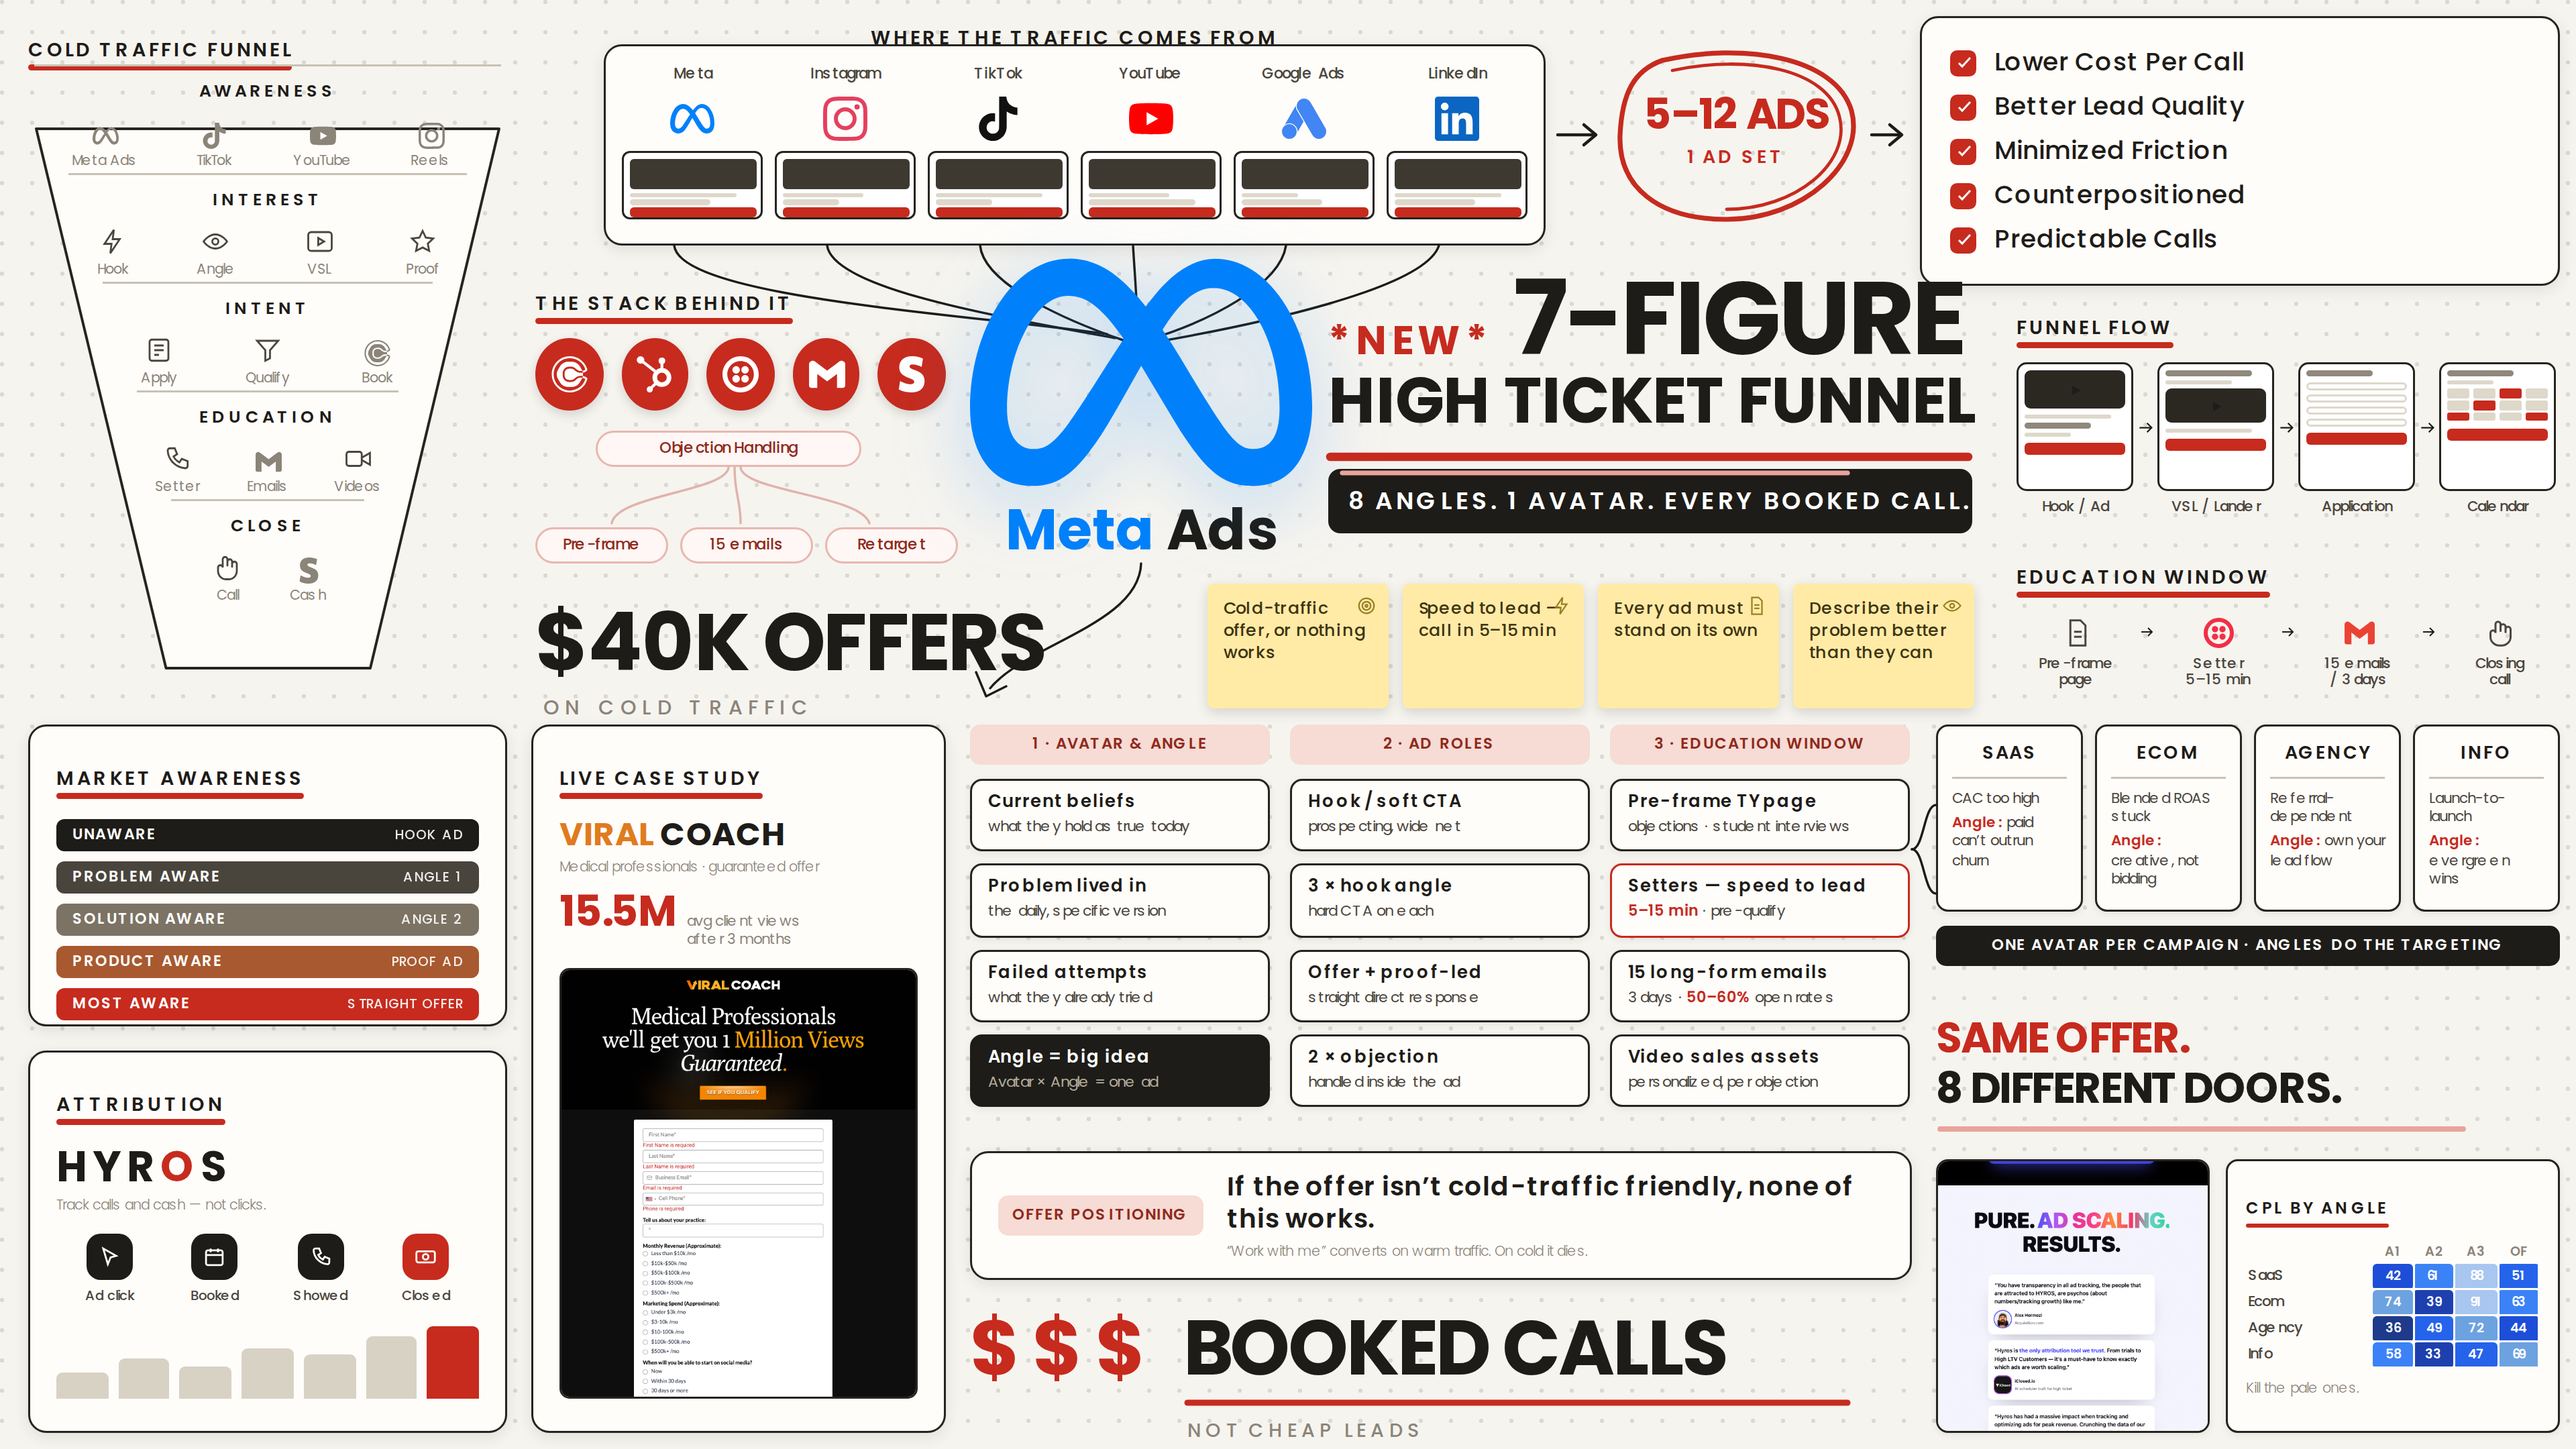
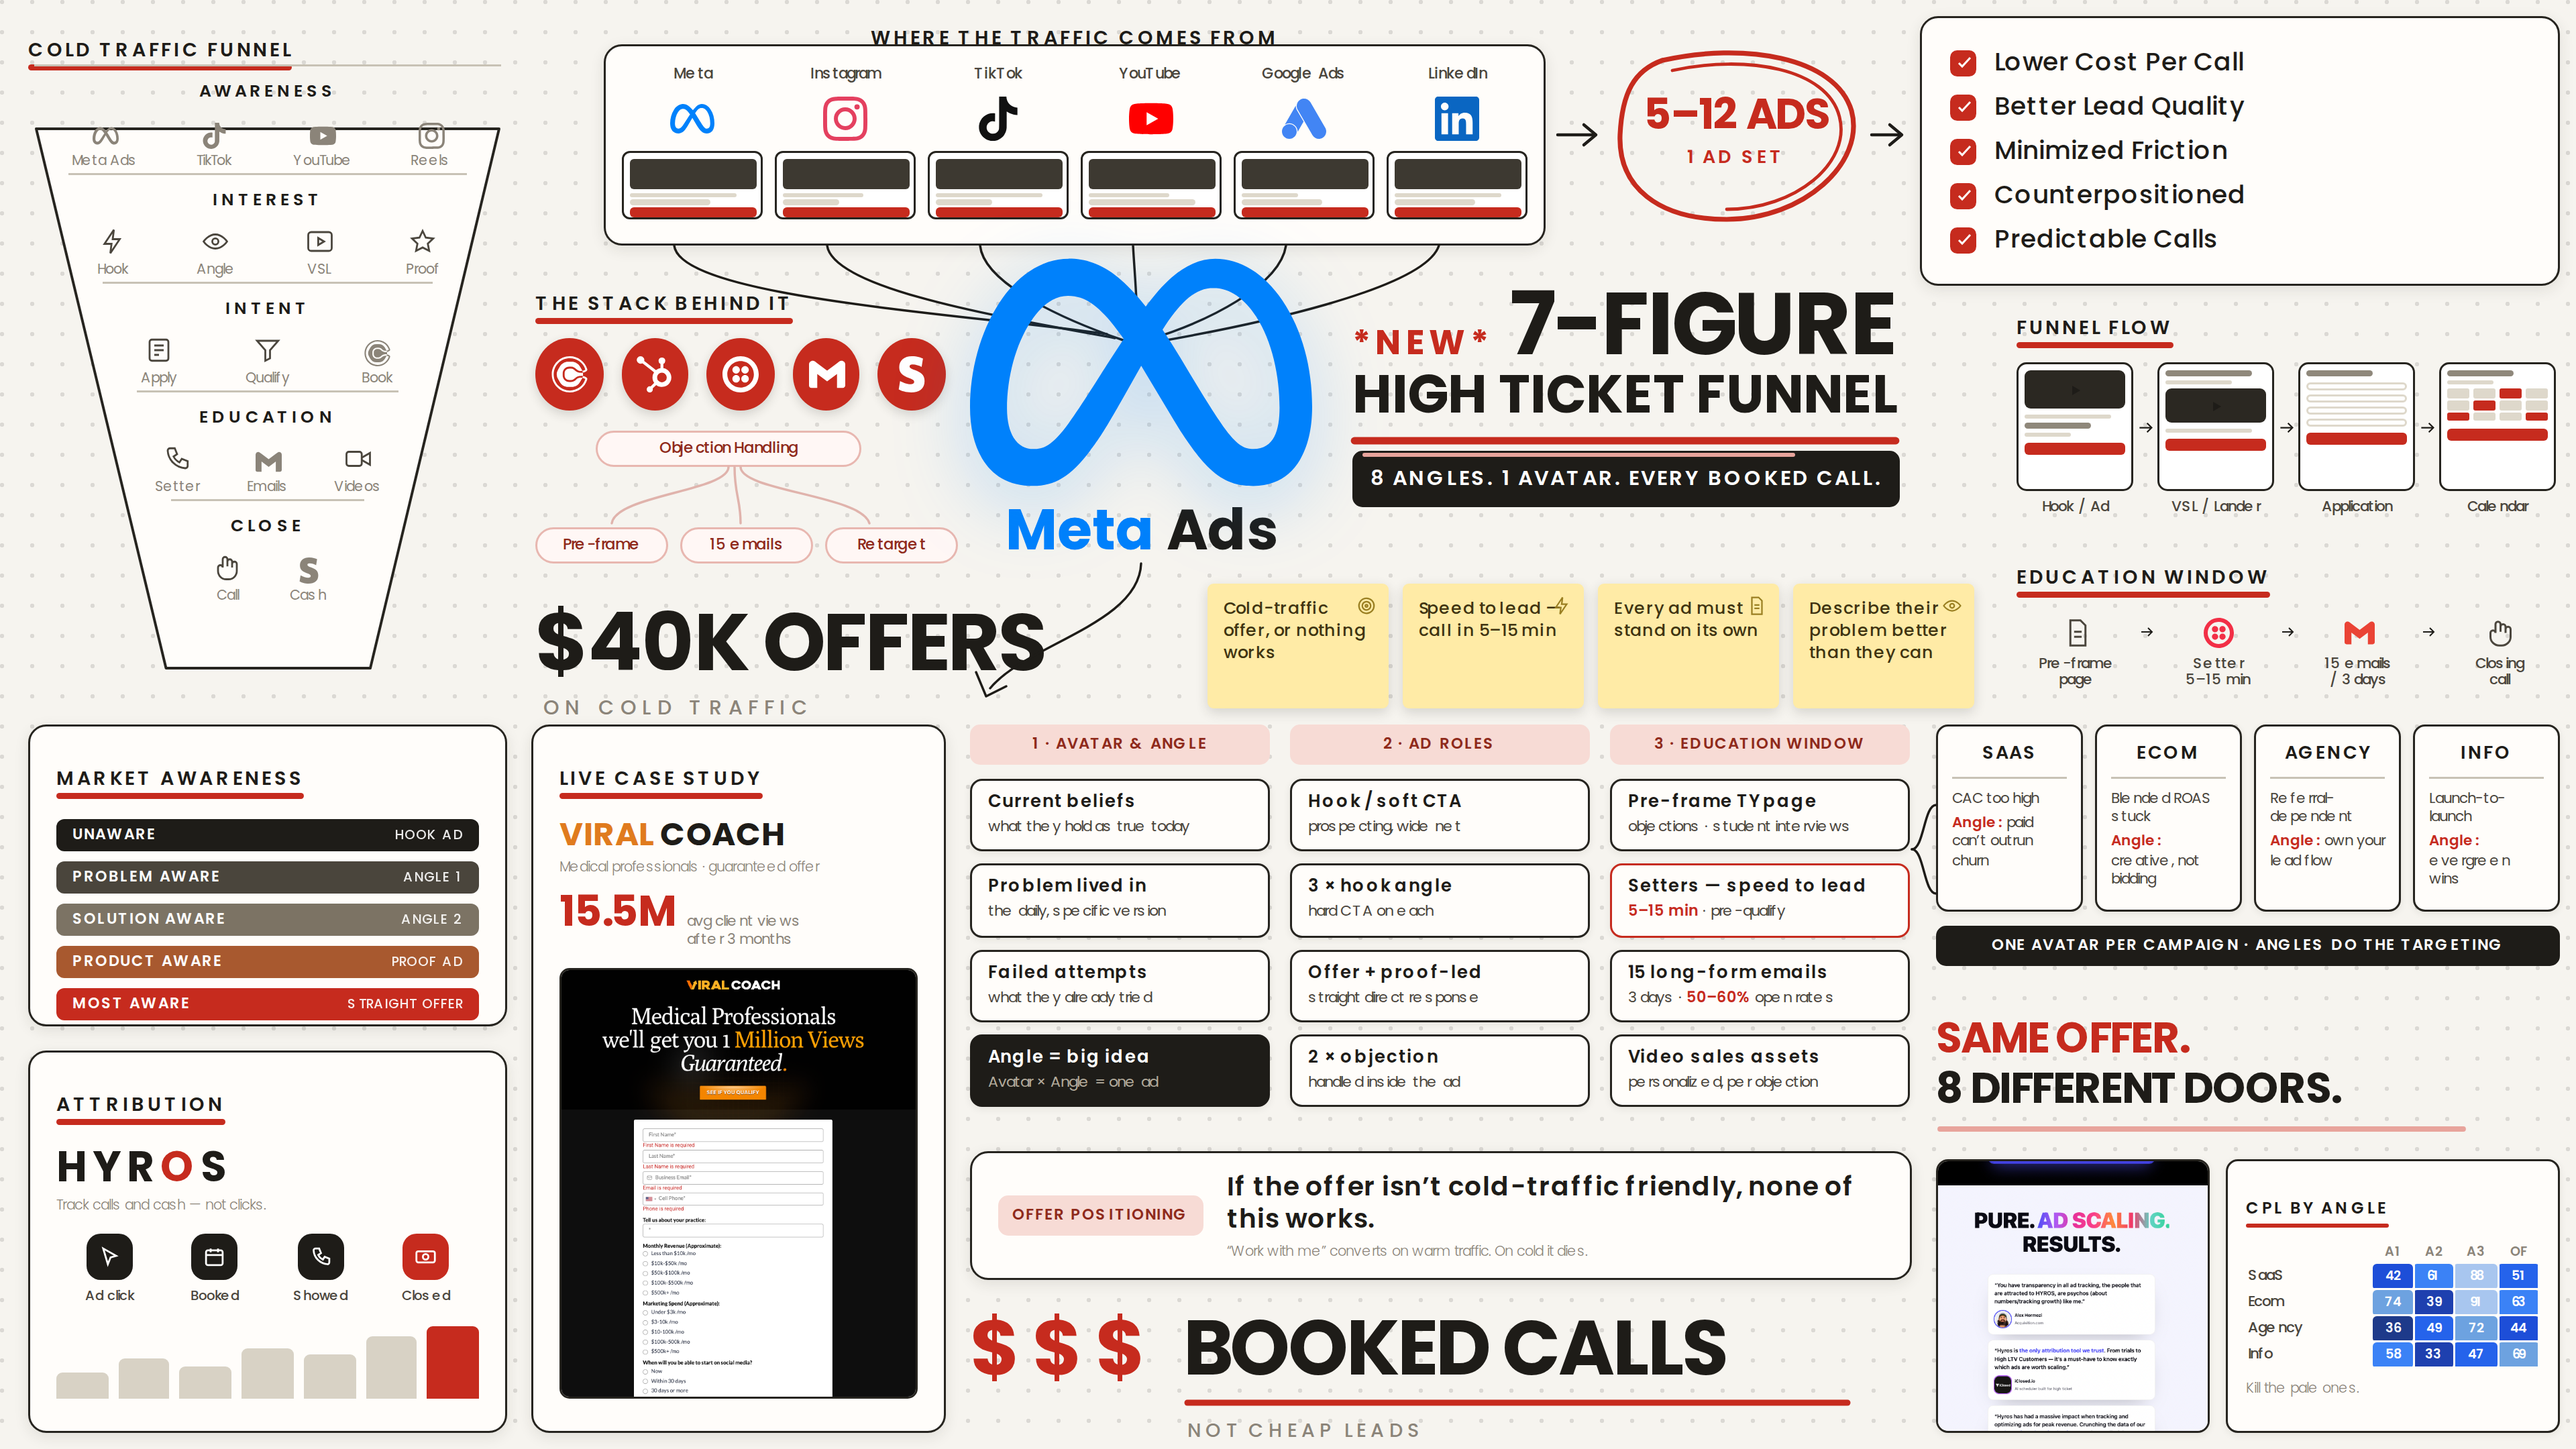
Scale down the thumbnail title block
Scaled the whole block by 0.85 to a 272px measure so the rows stay flush,
and opened the gap to FUNNEL FLOW and the sticky row.

Claude-Session: https://claude.ai/code/session_01GDiUpLQwiL13ZvT66QBghD

Changed region(s): [[0.5, 0.1861, 0.7812, 0.3722]]

diff --git a/design/thumbnails/multi-avatar-funnel/index.html b/design/thumbnails/multi-avatar-funnel/index.html
@@ -144,15 +144,15 @@ svg.ink{position:absolute;overflow:visible;pointer-events:none}
 #anchor .mads i{font-style:normal;color:#0081fb}
 
 /* ═════ F · title ═════ */
-#ttl{left:660px;top:134px;width:320px}
-#ttl .r1{display:flex;align-items:baseline;gap:10px;white-space:nowrap}
-#ttl .l0{font-weight:700;font-size:20px;letter-spacing:.14em;line-height:1;color:var(--red)}
-#ttl .l1{font-weight:700;font-size:51px;letter-spacing:-.025em;line-height:.95}
-#ttl .l2{font-weight:700;font-size:31.9px;letter-spacing:-.01em;line-height:1;
+#ttl{left:672px;top:140px;width:272px}
+#ttl .r1{display:flex;align-items:baseline;gap:8px;white-space:nowrap}
+#ttl .l0{font-weight:700;font-size:17px;letter-spacing:.14em;line-height:1;color:var(--red)}
+#ttl .l1{font-weight:700;font-size:43.4px;letter-spacing:-.025em;line-height:.95}
+#ttl .l2{font-weight:700;font-size:26.5px;letter-spacing:-.01em;line-height:1;
   margin-top:2px;white-space:nowrap}
-#ttl .bar{margin-top:17px;display:block;text-align:center;white-space:nowrap;
-  background:var(--ink);color:#fff;font-weight:600;font-size:12px;letter-spacing:.1em;
-  padding:7px 10px;border-radius:6px}
+#ttl .bar{margin-top:14px;display:block;text-align:center;white-space:nowrap;
+  background:var(--ink);color:#fff;font-weight:600;font-size:10.2px;letter-spacing:.1em;
+  padding:6px 9px;border-radius:5px}
 
 /* ═════ G · stickies ═════ */
 #stk{left:600px;top:290px;width:381px;display:flex;gap:7px}
@@ -435,9 +435,9 @@ svg.ink{position:absolute;overflow:visible;pointer-events:none}
   <div class="abs" id="ttl">
     <div class="r1"><span class="l0">*NEW*</span><span class="l1">7-FIGURE</span></div>
     <div class="l2">HIGH TICKET FUNNEL</div>
-    <svg class="ink" style="left:0;top:88px;width:320px;height:15px">
-      <path style="stroke:var(--red);stroke-width:4.2" d="M1 5 H318"/>
-      <path style="stroke:#e8a49c;stroke-width:2.4" d="M7 13 H258"/>
+    <svg class="ink" style="left:0;top:75px;width:272px;height:13px">
+      <path style="stroke:var(--red);stroke-width:3.6" d="M1 4 H270"/>
+      <path style="stroke:#e8a49c;stroke-width:2" d="M6 11 H219"/>
     </svg>
     <div class="bar">8 ANGLES. 1 AVATAR. EVERY BOOKED CALL.</div>
   </div>
